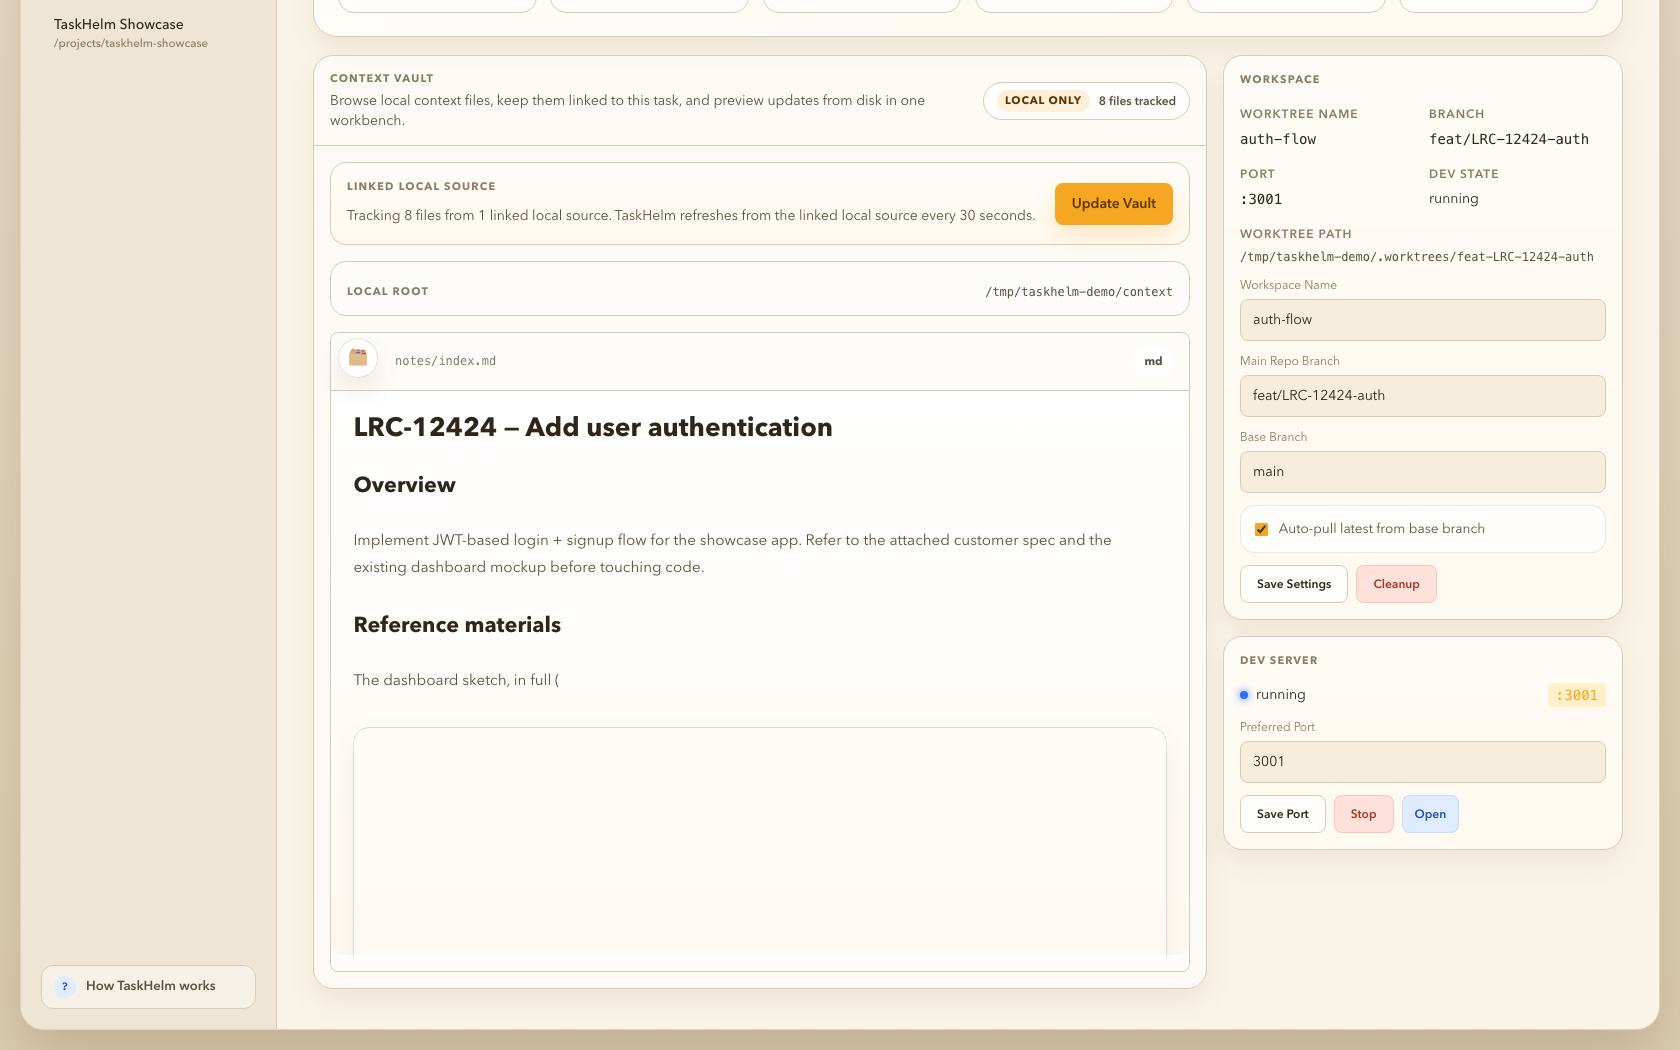
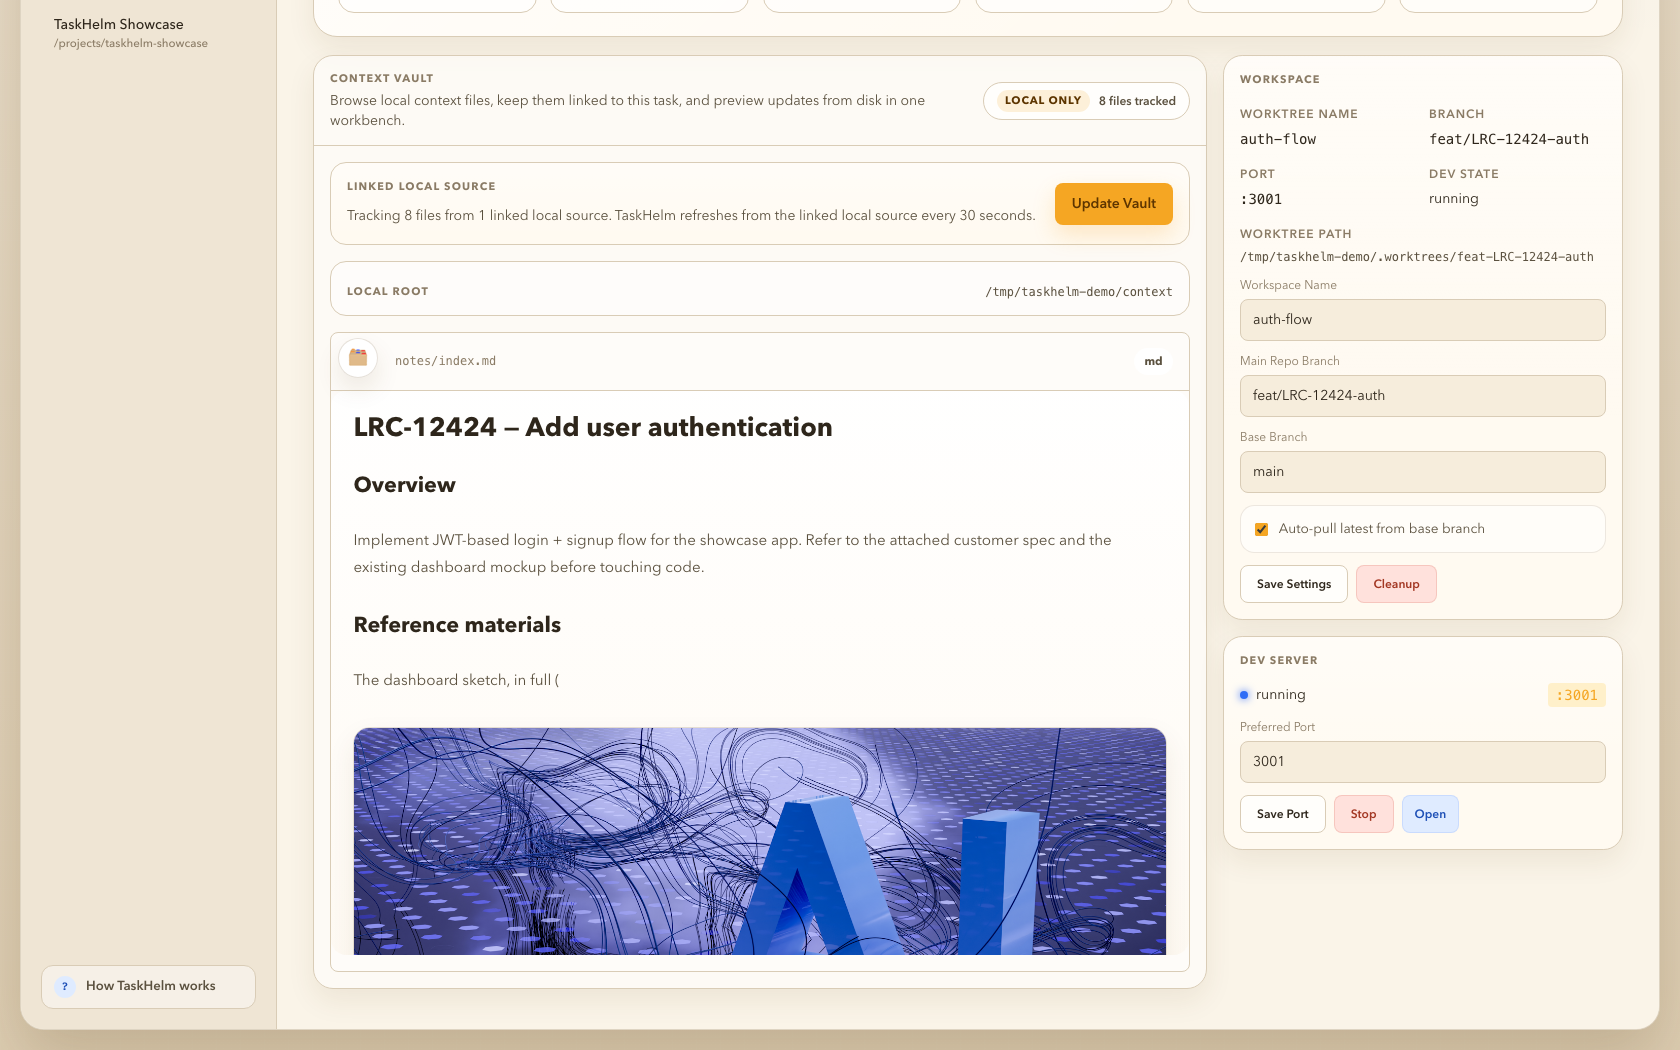
docs: refresh vault demo screenshot with real AI/tech assets
Replace placeholder images with curated Unsplash photos in the
demo context vault so demo-08 shows the inline-asset preview
working end-to-end.

- screenshots/{dashboard-overview,task-cockpit,dev-pool-status}.png
  fetched from Unsplash (Unsplash License) for the demo project
- recordings/{login-flow,checkout-bug}.mp4 fetched from Pexels
  (Pexels License) for the same project
- re-shot demo-08-task-detail-vault.png so the vault preview now
  renders an embedded image instead of a 1×1 placeholder
- removed stray port-conflict-modal-016.png (unused, predates
  the screenshot rename)
- bumped GitNexus stats in AGENTS.md / CLAUDE.md after re-index

Changed region(s): [[0.1857, 0.6705, 0.7119, 0.9143]]

diff --git a/CLAUDE.md b/CLAUDE.md
@@ -104,7 +104,7 @@ Read in this order for full design context (everything under `docs/` is the v1 s
 <!-- gitnexus:start -->
 # GitNexus — Code Intelligence
 
-This project is indexed by GitNexus as **TaskHelm** (1521 symbols, 2999 relationships, 115 execution flows). Use the GitNexus MCP tools to understand code, assess impact, and navigate safely.
+This project is indexed by GitNexus as **TaskHelm** (1553 symbols, 3047 relationships, 118 execution flows). Use the GitNexus MCP tools to understand code, assess impact, and navigate safely.
 
 > If any GitNexus tool warns the index is stale, run `npx gitnexus analyze` in terminal first.
 

diff --git a/AGENTS.md b/AGENTS.md
@@ -22,7 +22,7 @@ Do NOT use: pencil, supabase, magic MCP tools in this project.
 <!-- gitnexus:start -->
 # GitNexus — Code Intelligence
 
-This project is indexed by GitNexus as **TaskHelm** (816 symbols, 1762 relationships, 61 execution flows). Use the GitNexus MCP tools to understand code, assess impact, and navigate safely.
+This project is indexed by GitNexus as **TaskHelm** (1553 symbols, 3047 relationships, 118 execution flows). Use the GitNexus MCP tools to understand code, assess impact, and navigate safely.
 
 > If any GitNexus tool warns the index is stale, run `npx gitnexus analyze` in terminal first.
 
